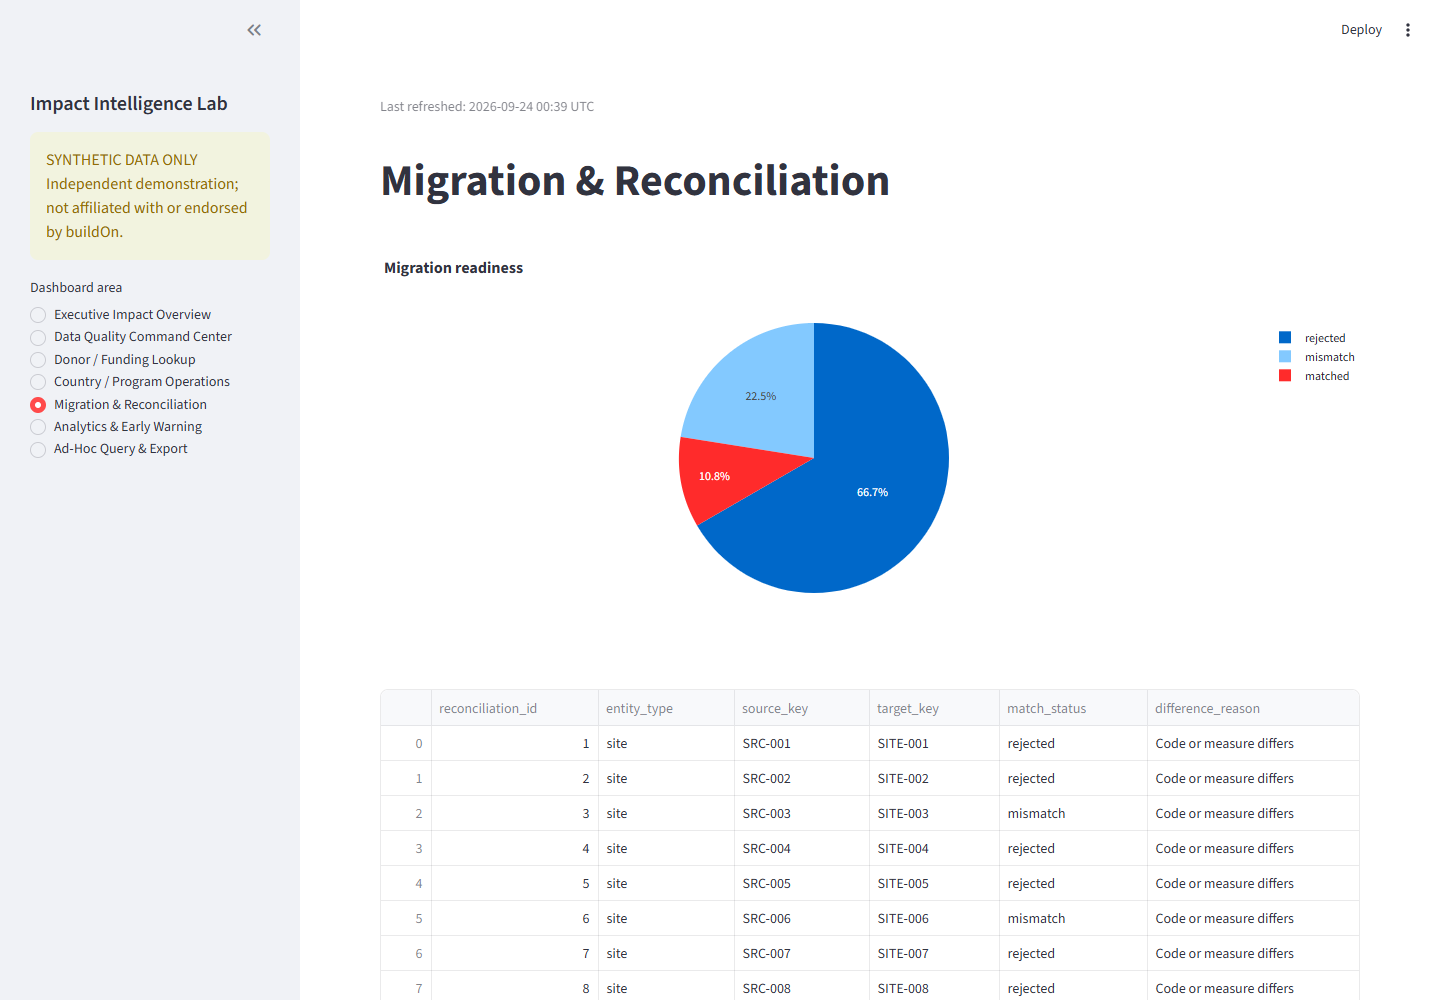
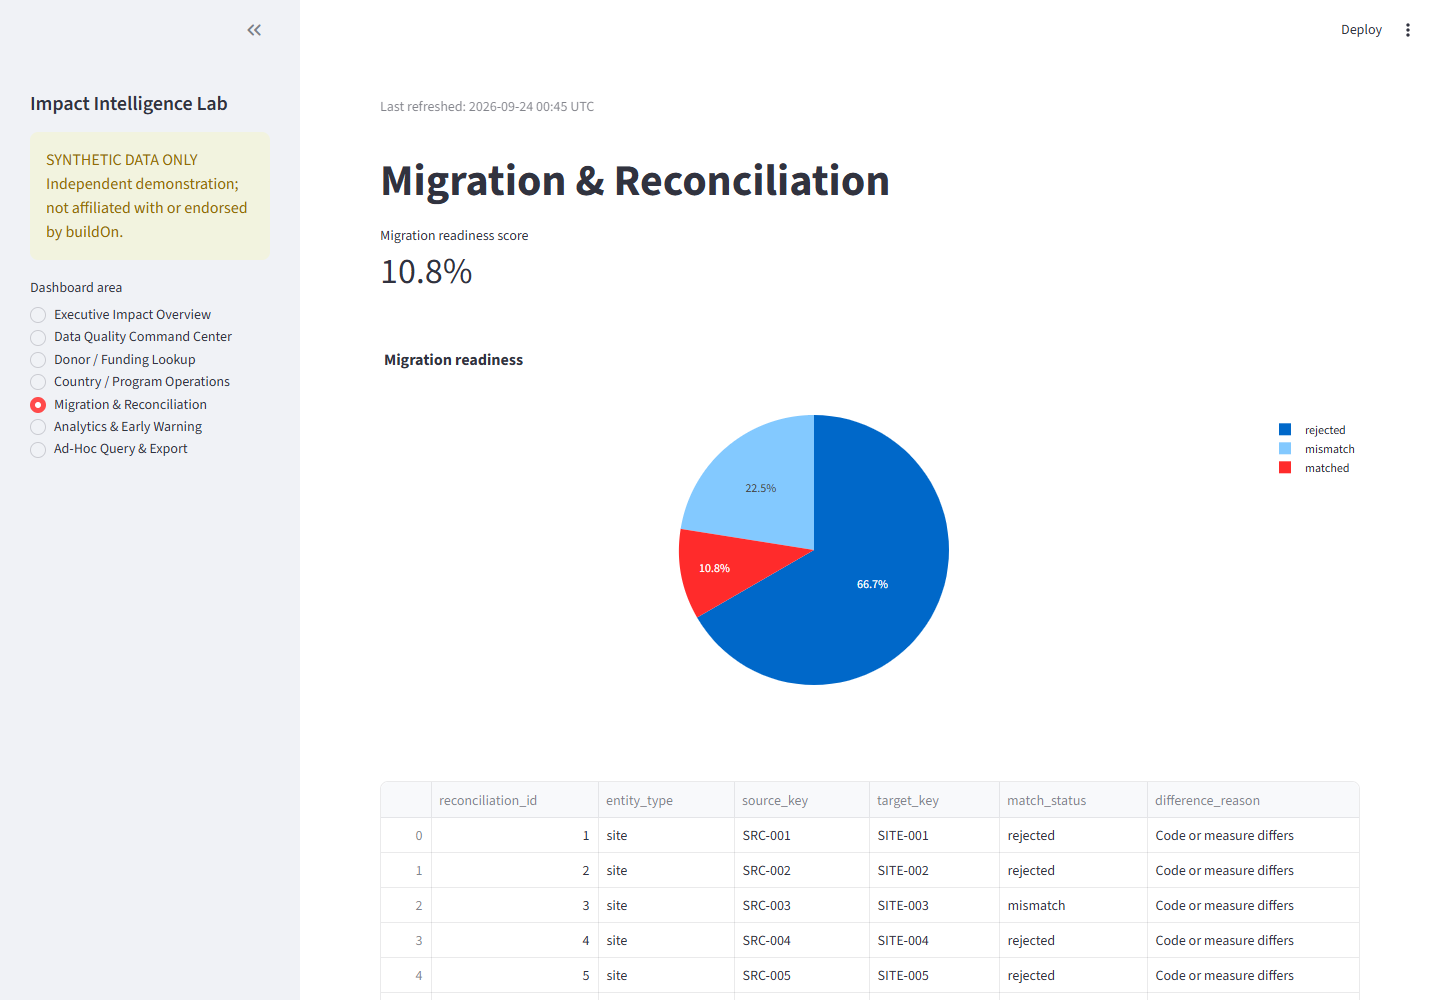
feat: expose migration readiness score

diff --git a/app/dashboard.py b/app/dashboard.py
@@ -18,7 +18,7 @@ elif page=='Donor / Funding Lookup':
 elif page=='Country / Program Operations':
  st.title('Country / Program Operations'); x=q('select c.country_name,p.program_name,sum(e.enrolled) enrolled,avg(cast(sub.is_complete as integer)) completeness from fact_enrollment e join dim_site s on s.site_id=e.site_id join dim_country c on c.country_code=s.country_code join dim_program p on p.program_id=s.program_id join fact_data_submission sub on sub.record_id=e.record_id group by c.country_name,p.program_name'); st.dataframe(x,use_container_width=True); st.plotly_chart(px.bar(x,x='country_name',y='enrolled',color='program_name',title='Enrollment by country and program'),use_container_width=True)
 elif page=='Migration & Reconciliation':
- st.title('Migration & Reconciliation'); x=q('select match_status,count(*) rows from fact_migration_reconciliation group by match_status'); st.plotly_chart(px.pie(x,names='match_status',values='rows',title='Migration readiness'),use_container_width=True); st.dataframe(q("select * from fact_migration_reconciliation where match_status<>'matched'"),use_container_width=True)
+ st.title('Migration & Reconciliation'); x=q('select match_status,count(*) rows from fact_migration_reconciliation group by match_status'); total=x['rows'].sum(); matched=x.loc[x.match_status=='matched','rows'].sum(); st.metric('Migration readiness score',f'{matched/max(total,1)*100:.1f}%'); st.plotly_chart(px.pie(x,names='match_status',values='rows',title='Migration readiness'),use_container_width=True); st.dataframe(q("select * from fact_migration_reconciliation where match_status<>'matched'"),use_container_width=True)
 elif page=='Analytics & Early Warning':
  st.title('Analytics & Early Warning'); e=q('select period_id,enrolled from fact_enrollment'); t=trend(e); st.plotly_chart(px.line(t,x='period_id',y=['enrolled','rolling_3'],title='Trend and rolling average'),use_container_width=True); st.warning('Diagnostic indicator: sustained movement should be reviewed with data-quality context before operational action.'); st.dataframe(t.tail(10),use_container_width=True)
 else:

diff --git a/api/main.py b/api/main.py
@@ -29,7 +29,10 @@ def lookup(country=None,program_id=None):
 def analytics():
  t=trend(q('select period_id,enrolled from fact_enrollment')); ch=float(t['pct_change'].iloc[-1]) if len(t) else 0.0; stale=float(q('select avg(cast(is_stale as integer)) x from fact_data_submission').iloc[0,0]); rows=[{'period_id':int(r.period_id),'enrolled':float(r.enrolled),'rolling_3':float(r.rolling_3),'pct_change':float(r.pct_change)} for r in t.itertuples()]; return {'trend':rows,'diagnostic':diagnostic(ch,stale,.03),'stale_rate':stale}
 @app.get('/migration')
-def migration(): return q('select match_status,count(*) as rows from fact_migration_reconciliation group by match_status').to_dict('records')
+def migration():
+ rows=q('select match_status,count(*) as rows from fact_migration_reconciliation group by match_status').to_dict('records')
+ counts={row['match_status']:int(row['rows']) for row in rows}; total=sum(counts.values())
+ return {'counts':rows,'matched_rows':counts.get('matched',0),'mismatched_rows':counts.get('mismatch',0),'rejected_rows':counts.get('rejected',0),'total_rows':total,'readiness_score':round(counts.get('matched',0)/max(total,1)*100,1)}
 @app.get('/export/{kind}.csv')
 def export_csv(kind):
  sql={'quality':'select * from fact_data_quality_issue','migration':'select * from fact_migration_reconciliation'}.get(kind,'select * from fact_enrollment'); b=io.BytesIO(); b.write(q(sql).to_csv(index=False).encode()); b.seek(0); return StreamingResponse(b,media_type='text/csv',headers={'Content-Disposition':'attachment; filename='+kind+'.csv'})

diff --git a/tests/test_api.py b/tests/test_api.py
@@ -8,5 +8,8 @@ def test_lookup_supports_postgresql_parameters():
     assert response.status_code==200
     assert response.json()
 def test_migration_reports_all_statuses():
-    statuses={row['match_status'] for row in client.get('/migration').json()}
+    payload=client.get('/migration').json()
+    statuses={row['match_status'] for row in payload['counts']}
     assert {'matched','mismatch','rejected'} <= statuses
+    assert payload['total_rows']==120
+    assert payload['readiness_score']==10.8
